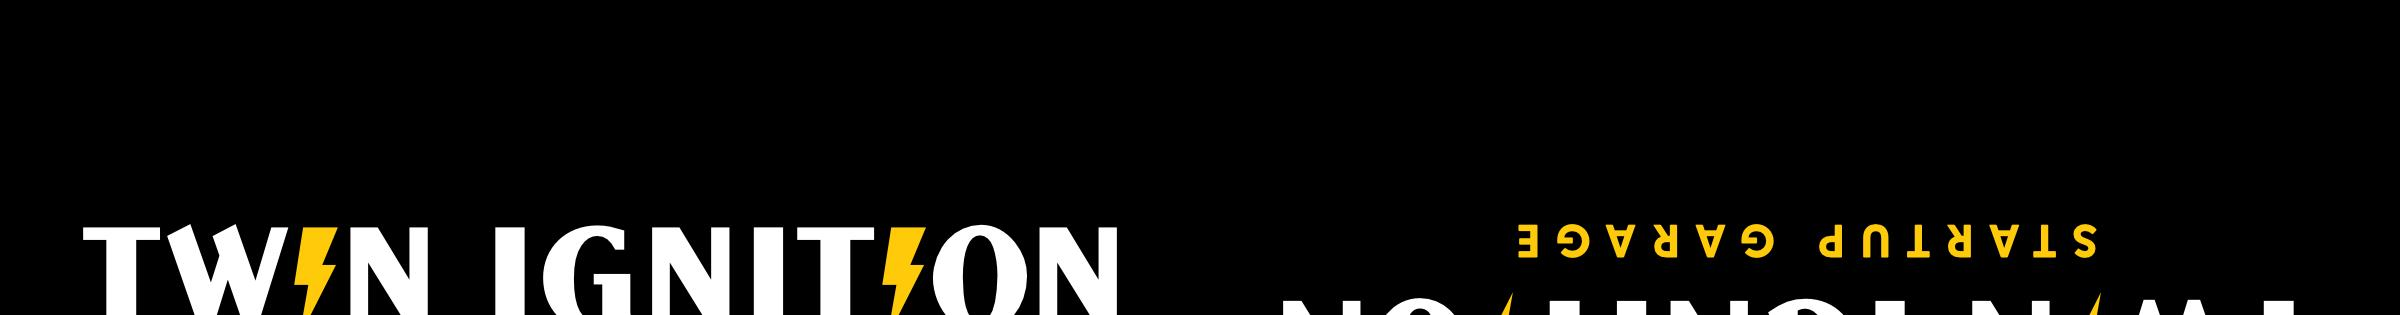
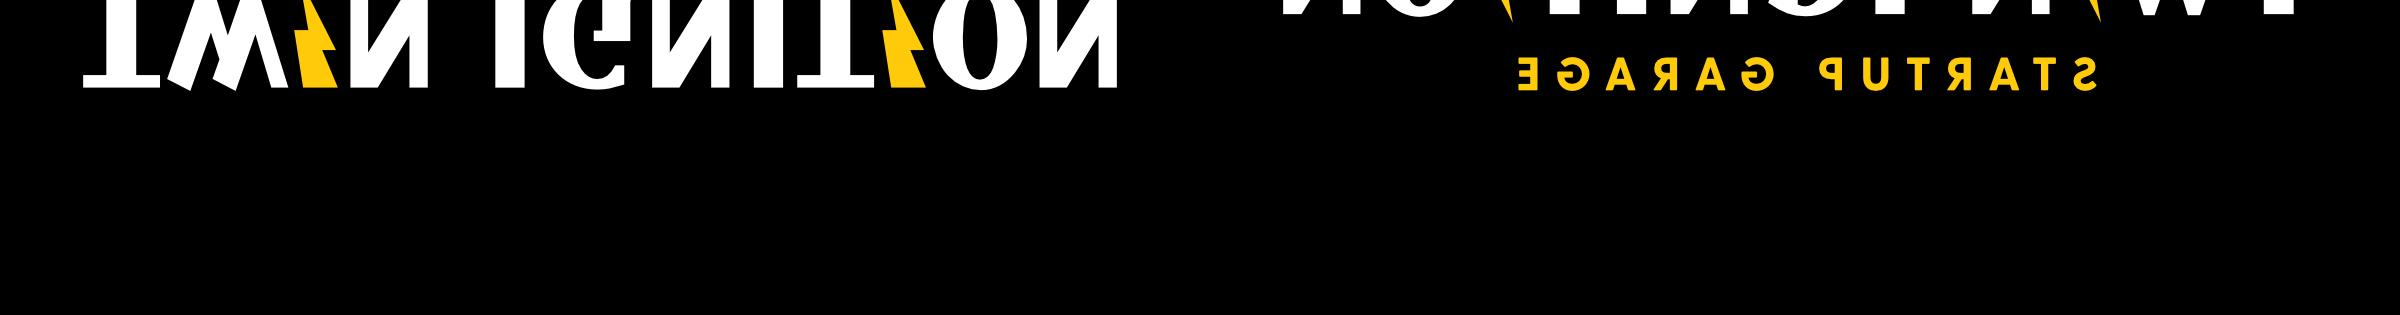
panels

diff --git a/utils.py b/utils.py
@@ -19,8 +19,9 @@ def restructureImage(img, outputFileName, panels=6):
     
     if (panels == 4):
         img_top = img[:int(img.shape[0] / 2) , :img.shape[1], :]
+        img_top = np.flip(img_top, axis=0)
         img_bottom = img[int(img.shape[0] / 2) :, :img.shape[1], :]
-        img_bottom = np.flip(img_bottom, axis=0)
+        #img_bottom = np.flip(img_bottom, axis=0)
         img_bottom = np.flip(img_bottom, axis=1)
                 
         stitched_img = np.empty((img_top.shape[0], img_top.shape[1] * 2, img_top.shape[2]))
